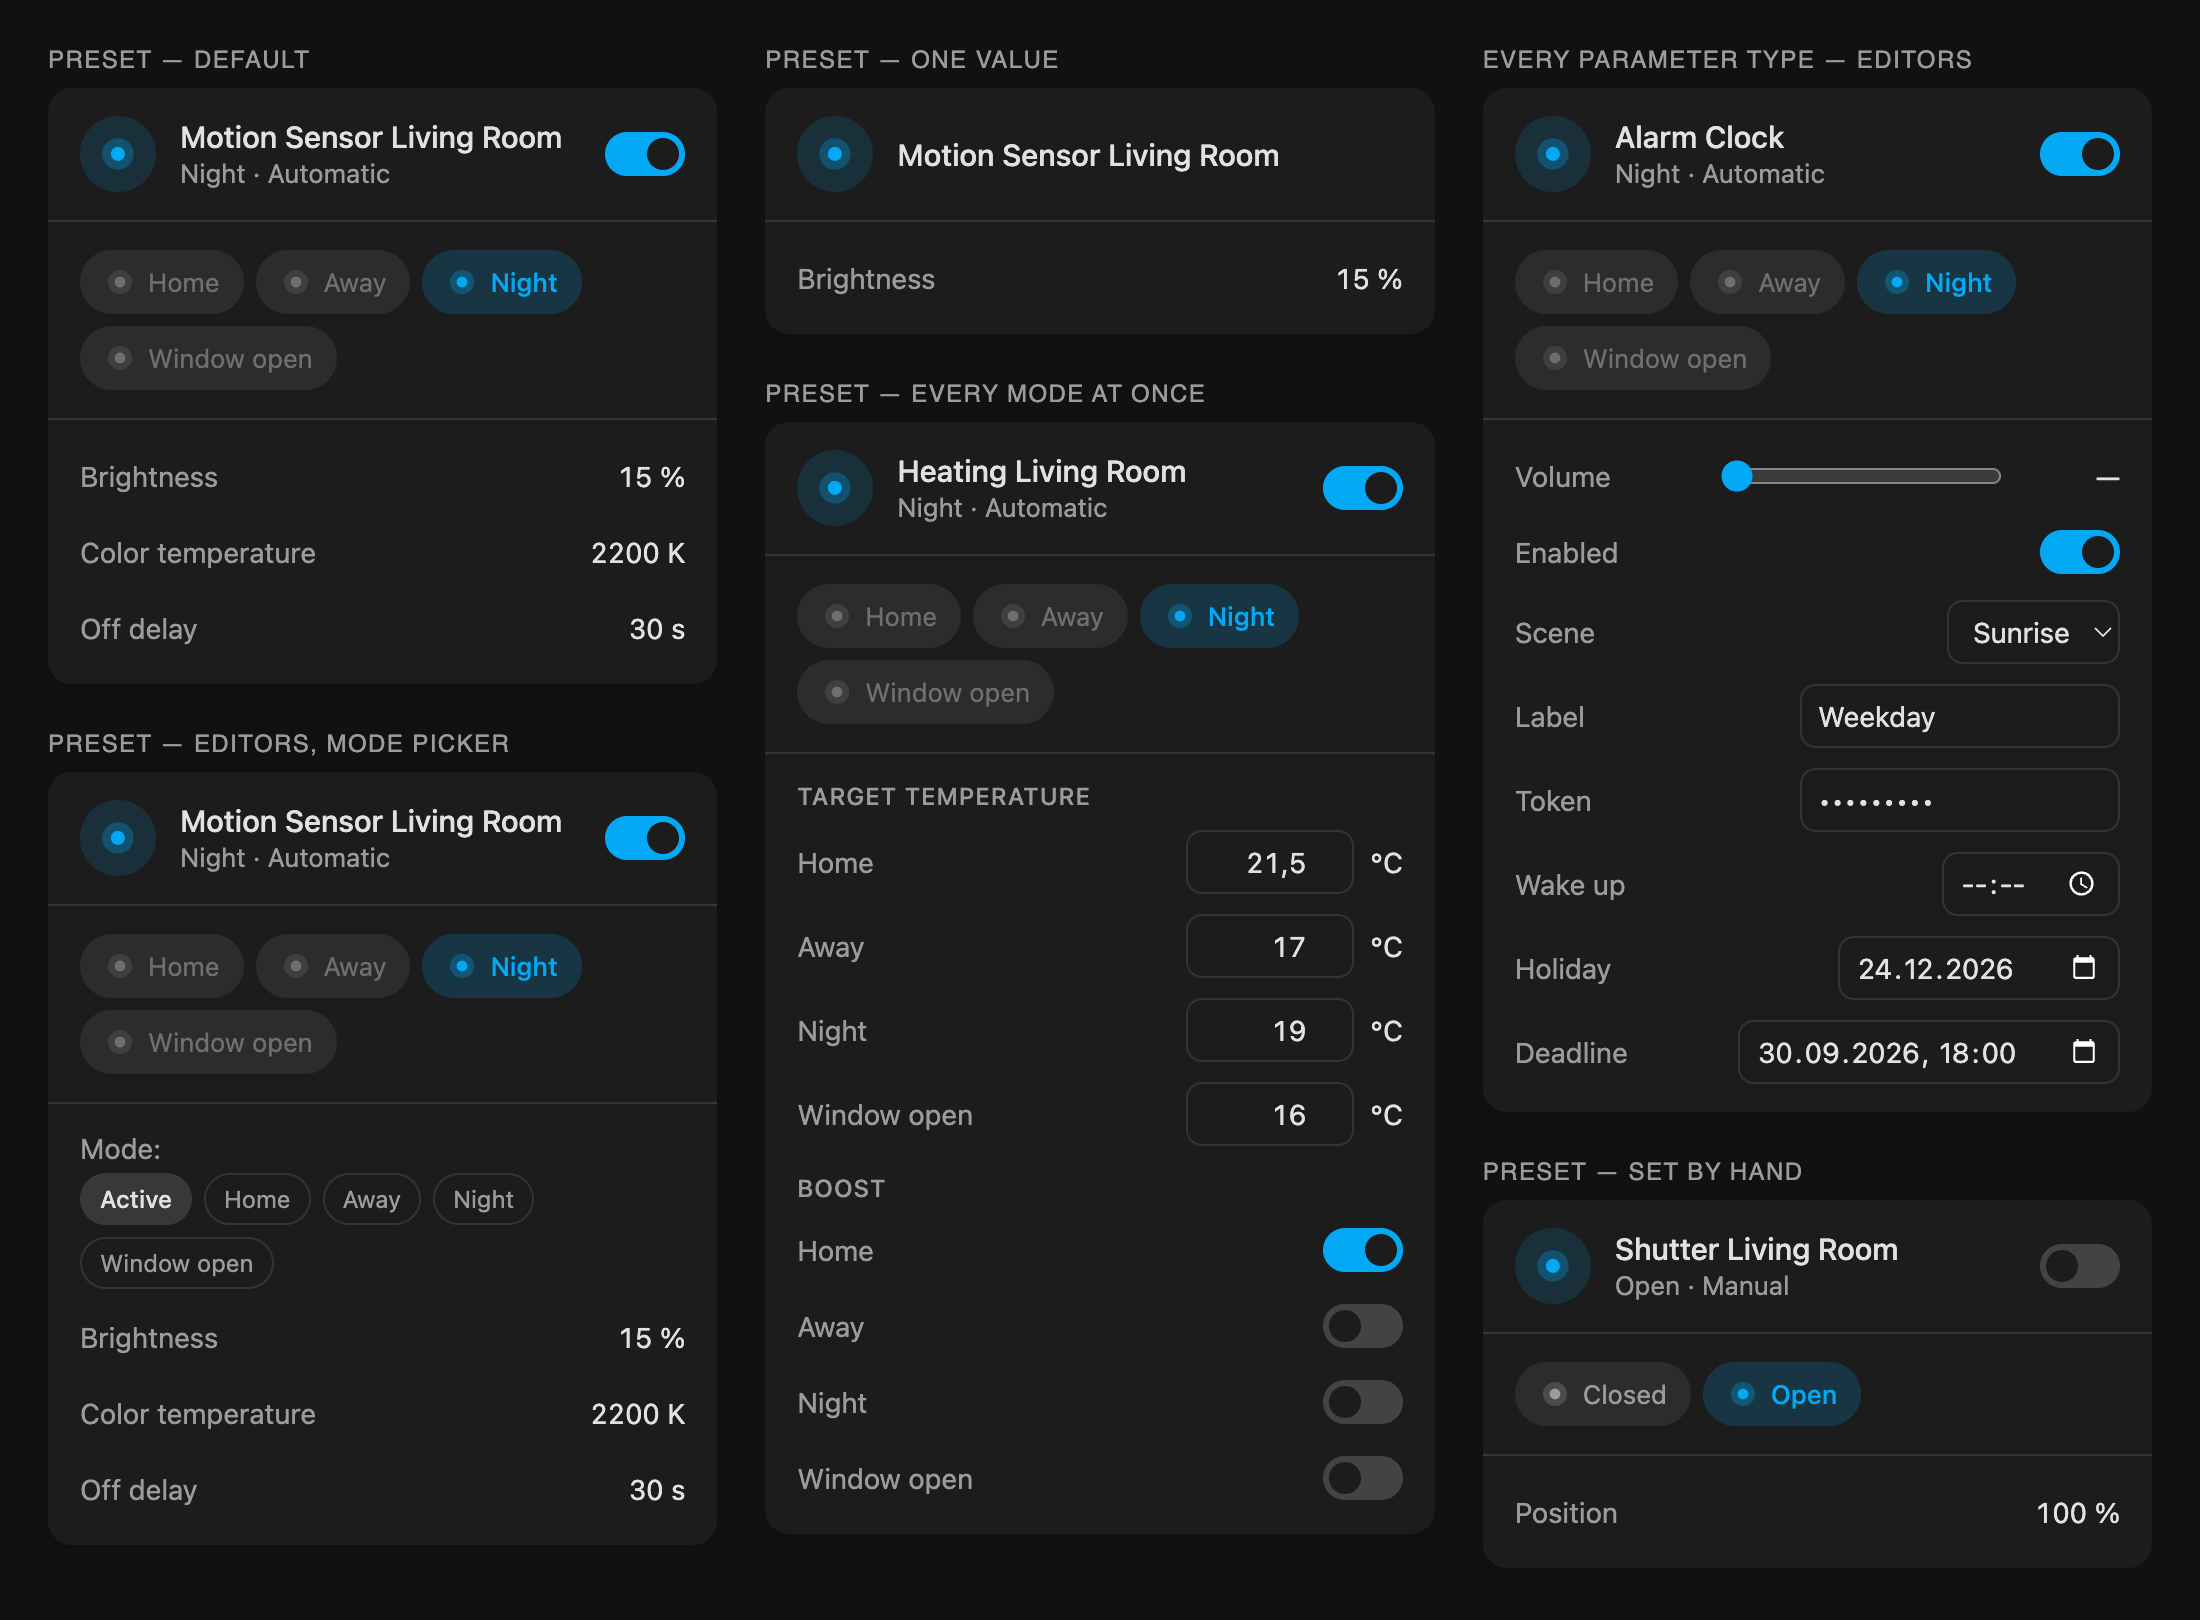
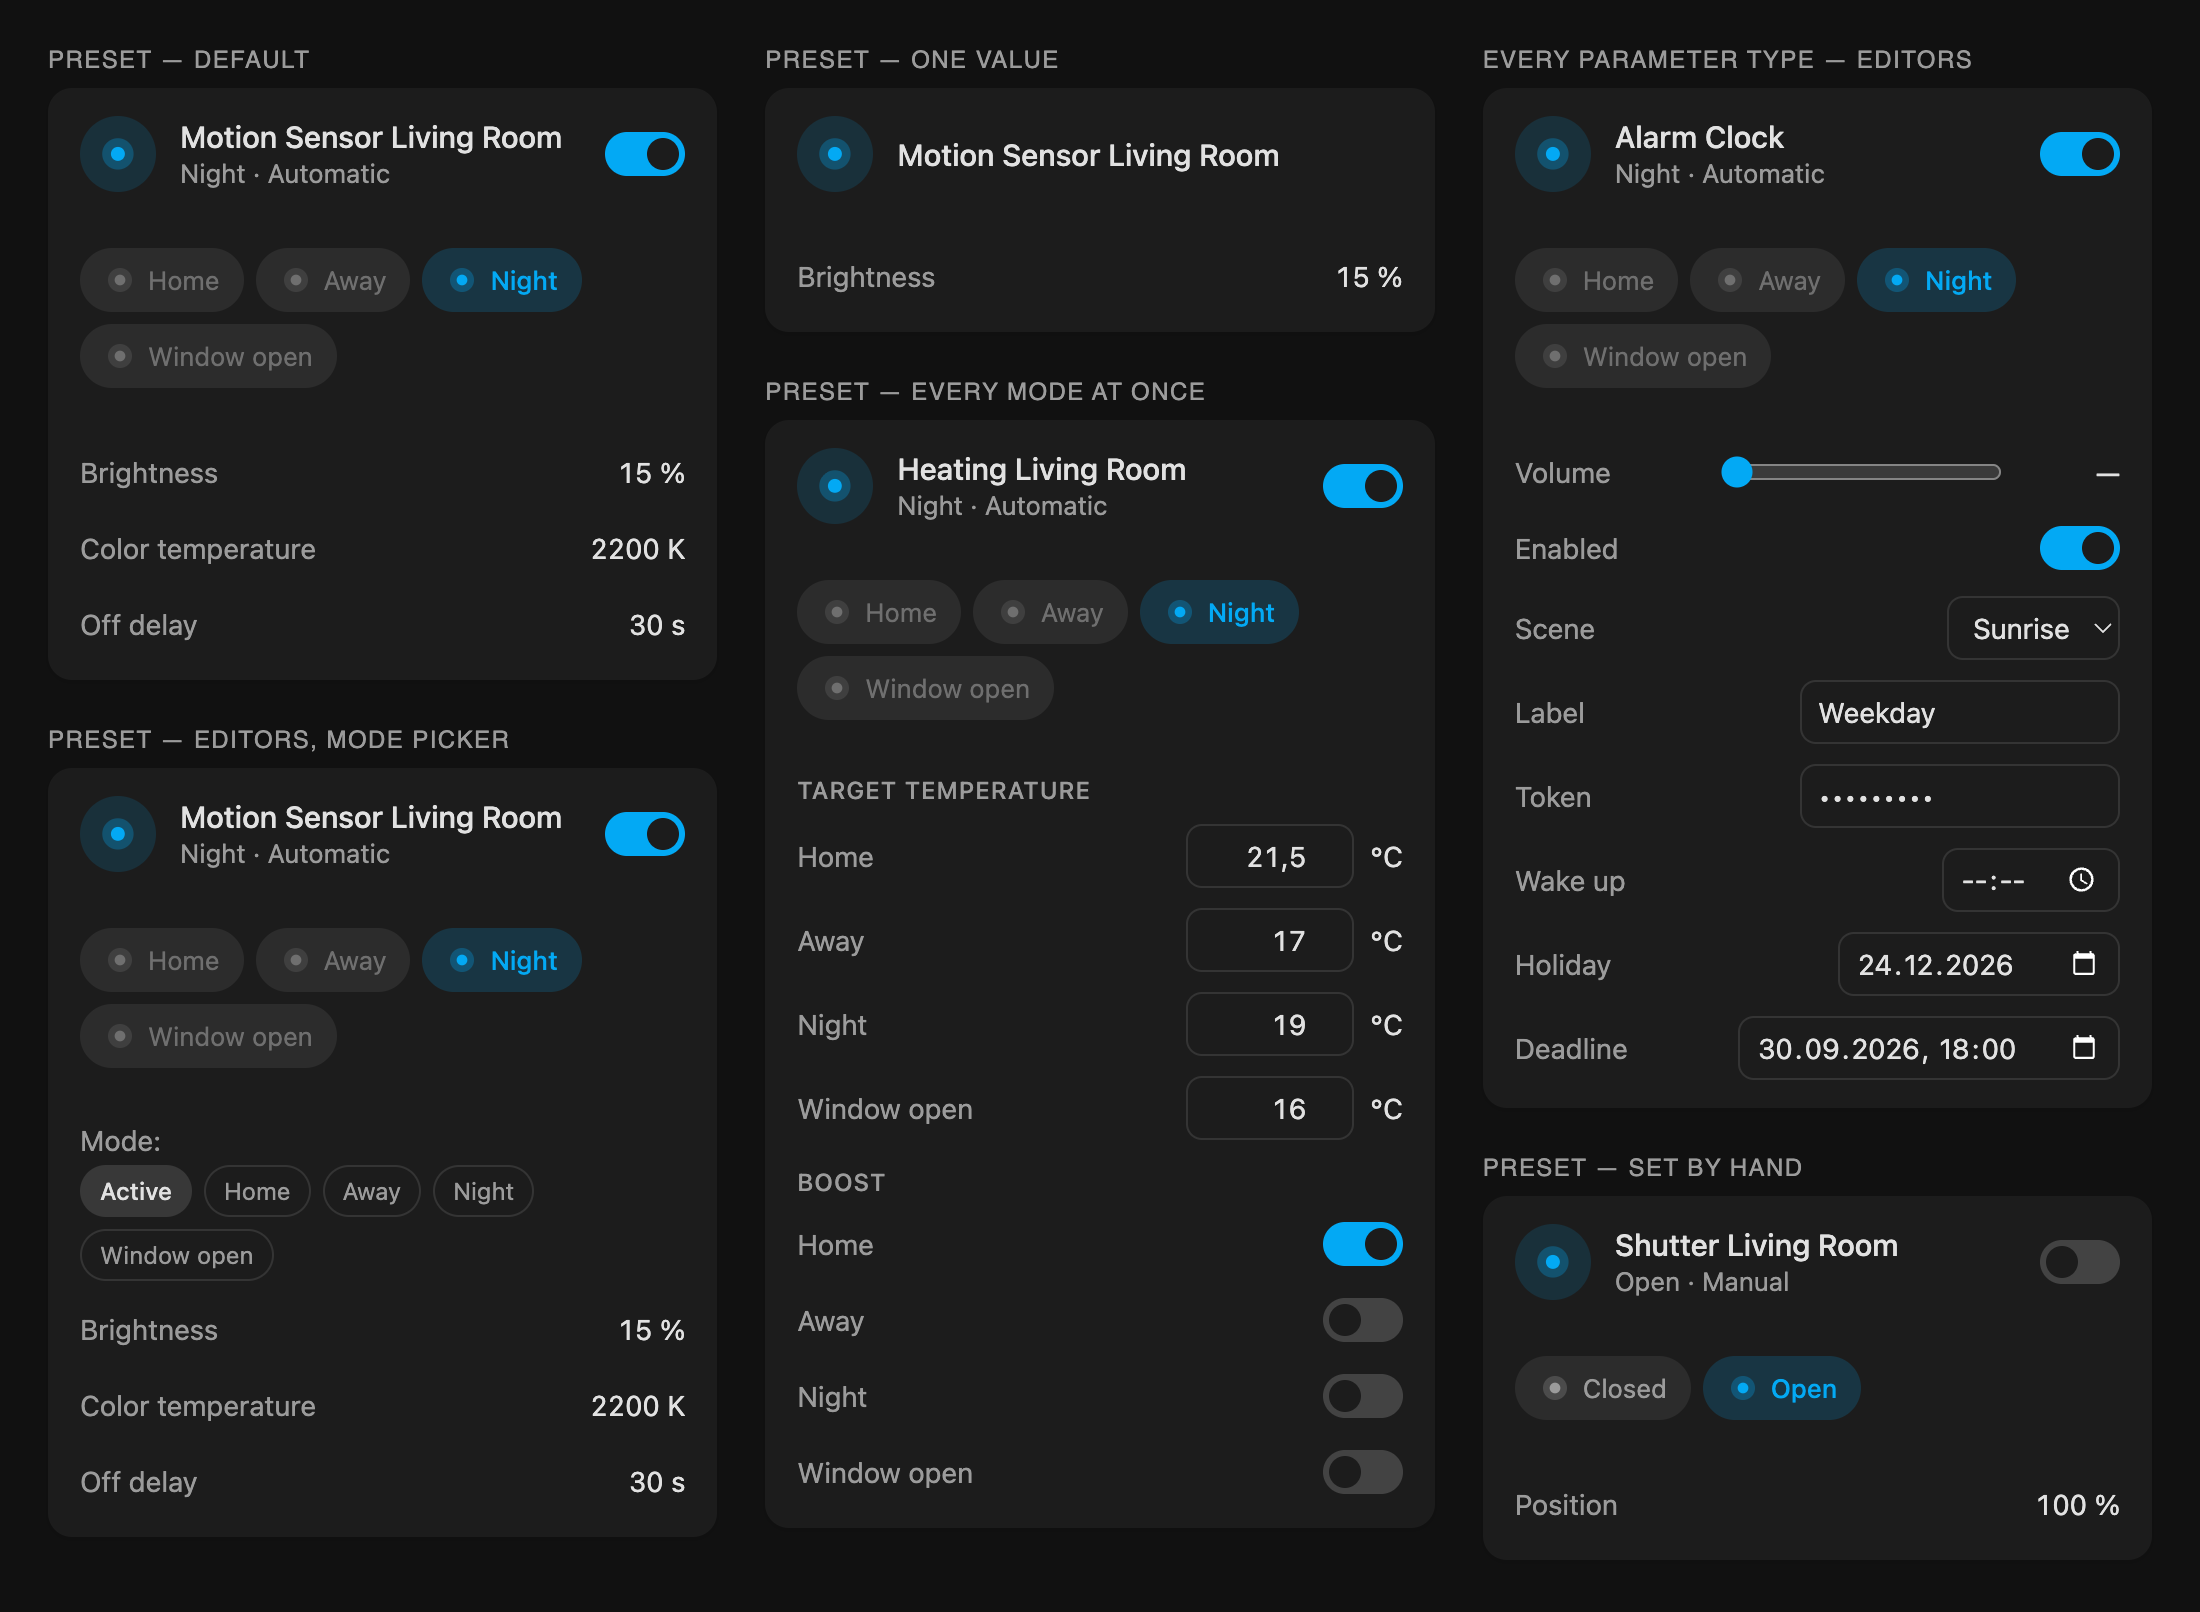
Take the rules out from between the sections
Header, modes and values were each fenced off with a hairline. The padding around them already says where one block ends and the next begins, so the lines added nothing but seams - and on a card that carries at most four blocks, three of them were the loudest thing in the picture.

diff --git a/custom_components/preset_manager/www/preset-manager-card.js b/custom_components/preset_manager/www/preset-manager-card.js
@@ -31,12 +31,6 @@ const t="preset-manager-card";function e(t,e,i,s){var n,r=arguments.length,o=r<3
     padding: var(--pm-padding-y) var(--pm-padding-x);
   }
 
-  /* A rule only ever appears between two sections that are both there, so an
-     empty card never shows a line with nothing on either side of it. */
-  .section + .section {
-    border-top: 1px solid var(--pm-divider);
-  }
-
   /* Header ---------------------------------------------------------------- */
 
   /* Name and switch share a line while both fit, and the switch drops onto

diff --git a/frontend/src/styles.ts b/frontend/src/styles.ts
@@ -47,12 +47,6 @@ export const cardStyles = css`
     padding: var(--pm-padding-y) var(--pm-padding-x);
   }
 
-  /* A rule only ever appears between two sections that are both there, so an
-     empty card never shows a line with nothing on either side of it. */
-  .section + .section {
-    border-top: 1px solid var(--pm-divider);
-  }
-
   /* Header ---------------------------------------------------------------- */
 
   /* Name and switch share a line while both fit, and the switch drops onto

diff --git a/CHANGELOG.md b/CHANGELOG.md
@@ -112,6 +112,10 @@ as they are rather than renamed mid-series.
 
 ### Changed
 
+- **No more rules between the sections of a card.** Header, modes and values
+  were separated by a hairline each; the padding around them already groups
+  them, and three lines on a card that carries at most four blocks drew more
+  attention to the seams than to what is in them.
 - **`modes.style` is gone.** It had two settings and one of them stopped
   existing: a preset mode draws its modes as a list, so the option did nothing
   there at all, and an option that is silently inert on one kind of card is

diff --git a/README.md b/README.md
@@ -1055,7 +1055,7 @@ changes visibly:
 ```bash
 "/Applications/Google Chrome.app/Contents/MacOS/Google Chrome" \
   --headless=new --hide-scrollbars --force-device-scale-factor=2 \
-  --window-size=1100,810 --screenshot=assets/card-dark.png \
+  --window-size=1100,806 --screenshot=assets/card-dark.png \
   "http://localhost:8765/frontend/preview.html?gallery=1100&columns=3&showcase=1&theme=dark"
 ```
 
